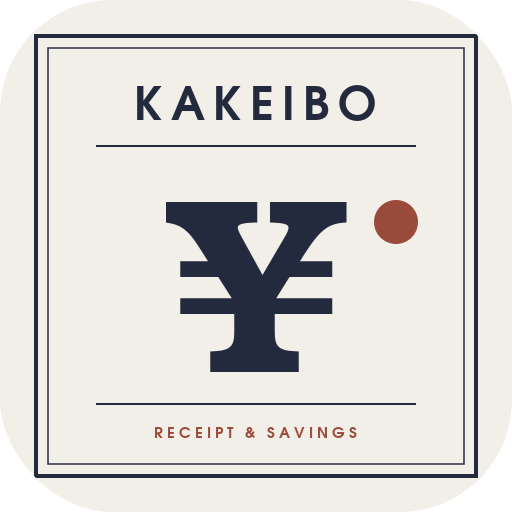
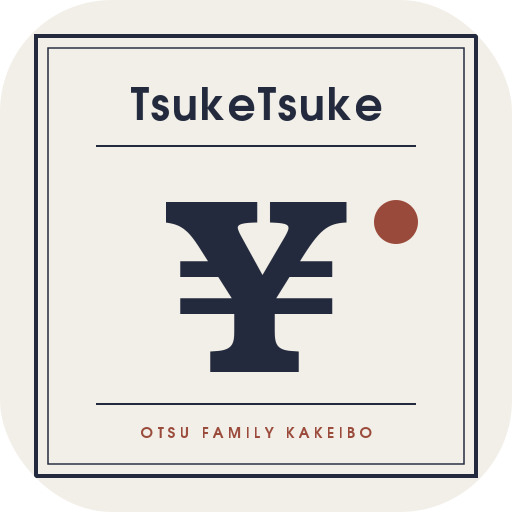
名前をTsukeTsukeに（見出しバランス調整・アイコン・アプリ名）

Changed region(s): [[0.25, 0.1562, 0.75, 0.25], [0.2812, 0.8125, 0.7188, 0.875]]

diff --git a/index.html b/index.html
@@ -6,10 +6,10 @@
   <meta name="theme-color" content="#232A3D" />
   <meta name="apple-mobile-web-app-capable" content="yes" />
   <meta name="apple-mobile-web-app-status-bar-style" content="default" />
-  <meta name="apple-mobile-web-app-title" content="家計簿" />
+  <meta name="apple-mobile-web-app-title" content="TsukeTsuke" />
   <link rel="manifest" href="./manifest.webmanifest" />
   <link rel="apple-touch-icon" href="./icon-192.png" />
-  <title>家計簿レシート登録</title>
+  <title>TsukeTsuke — 大津家家計簿</title>
   <style>
     :root{
       color-scheme: light;
@@ -32,8 +32,8 @@
       width:38px;height:38px;border-radius:12px;background:#111;color:#fff;
       display:grid;place-items:center;font-size:20px;flex:none
     }
-    .brand h1{font-size:16px;line-height:1.2;margin:0;color:var(--ink);letter-spacing:.14em;text-transform:uppercase;font-weight:900}
-    .brand p{font-size:10px;color:var(--muted);margin:3px 0 0;letter-spacing:.18em;font-weight:800;text-transform:uppercase}
+    .brand h1{font-size:17px;line-height:1.2;margin:0;color:var(--ink);letter-spacing:.04em;font-weight:900;white-space:nowrap}
+    .brand p{font-size:10px;color:var(--muted);margin:3px 0 0;letter-spacing:.14em;font-weight:800}
     .settings{
       border:2px solid var(--line);background:var(--panel);color:var(--ink);border-radius:999px;
       padding:8px 12px;font-size:13px;font-weight:900;letter-spacing:.06em
@@ -75,8 +75,8 @@
     <div class="brand">
       <img class="mark" src="./icon-192.png" alt="" style="border-radius:10px;object-fit:cover">
       <div>
-        <h1>Kakeibo</h1>
-        <p>Receipt &amp; Savings</p>
+        <h1>TsukeTsuke</h1>
+        <p>大津家家計簿</p>
       </div>
     </div>
     <div style="display:flex;gap:6px;flex:0 0 auto">

diff --git a/apps-script/Index.html b/apps-script/Index.html
@@ -10,8 +10,9 @@
     body { margin:0; font-family:"Helvetica Neue",Helvetica,Arial,"Hiragino Sans","Hiragino Kaku Gothic ProN",sans-serif; background:var(--bg); color:#1f2340;
       background-image:radial-gradient(rgba(35,42,61,.05) 1px, transparent 1px); background-size:14px 14px; }
     main { max-width:520px; margin:0 auto; padding:18px 16px 60px; }
-    h1 { font-size:22px; margin:2px 0 2px; color:var(--navy); letter-spacing:.14em; text-transform:uppercase; font-weight:900; }
-    .sub { margin:0 0 16px; color:var(--muted); font-size:11px; letter-spacing:.22em; text-transform:uppercase; font-weight:800; }
+    .eyebrow { margin:0; color:var(--muted); font-size:11px; letter-spacing:.2em; font-weight:800; }
+    h1 { font-size:30px; line-height:1.1; margin:2px 0 4px; color:var(--navy); letter-spacing:.04em; font-weight:900; white-space:nowrap; }
+    .sub { margin:0 0 16px; color:var(--muted); font-size:10px; letter-spacing:.22em; text-transform:uppercase; font-weight:800; }
     .card { background:var(--card); border:2px solid var(--navy); border-radius:6px; padding:16px; margin:14px 0; box-shadow:3px 3px 0 var(--navy); }
     .label { display:block; font-size:11px; font-weight:900; margin-bottom:8px; color:var(--navy); letter-spacing:.18em; text-transform:uppercase; }
     .seg { display:grid; grid-template-columns:1fr 1fr; gap:0; border:2px solid var(--navy); border-radius:999px; overflow:hidden; }
@@ -54,8 +55,9 @@
 </head>
 <body>
 <main>
-  <h1>Kakeibo</h1>
-  <p class="sub">Receipt &amp; Savings — 家計簿</p>
+  <p class="eyebrow">大津家家計簿</p>
+  <h1>TsukeTsuke</h1>
+  <p class="sub">Receipt &amp; Savings</p>
   <div class="stripes"></div>
 
   <div class="tabs">
